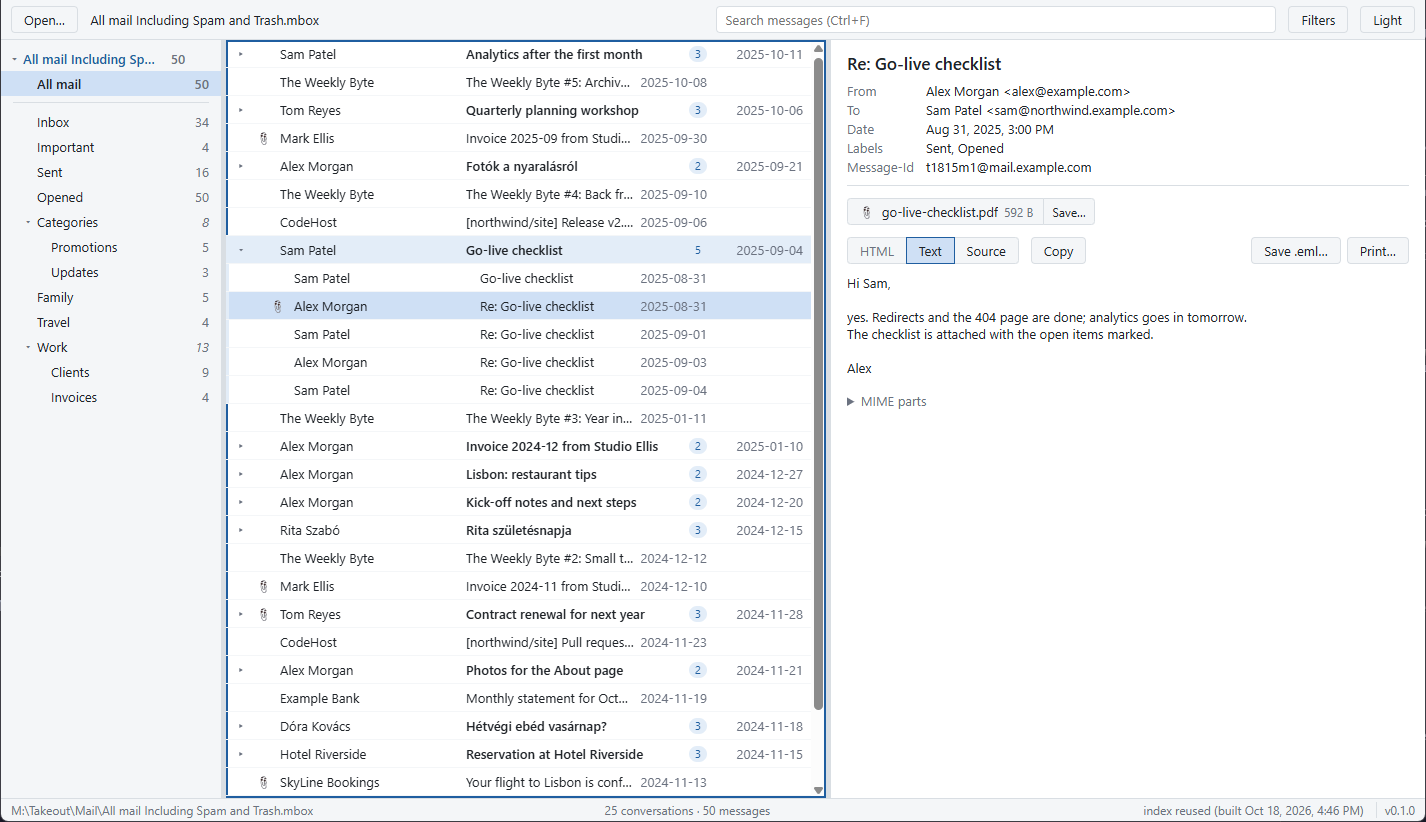
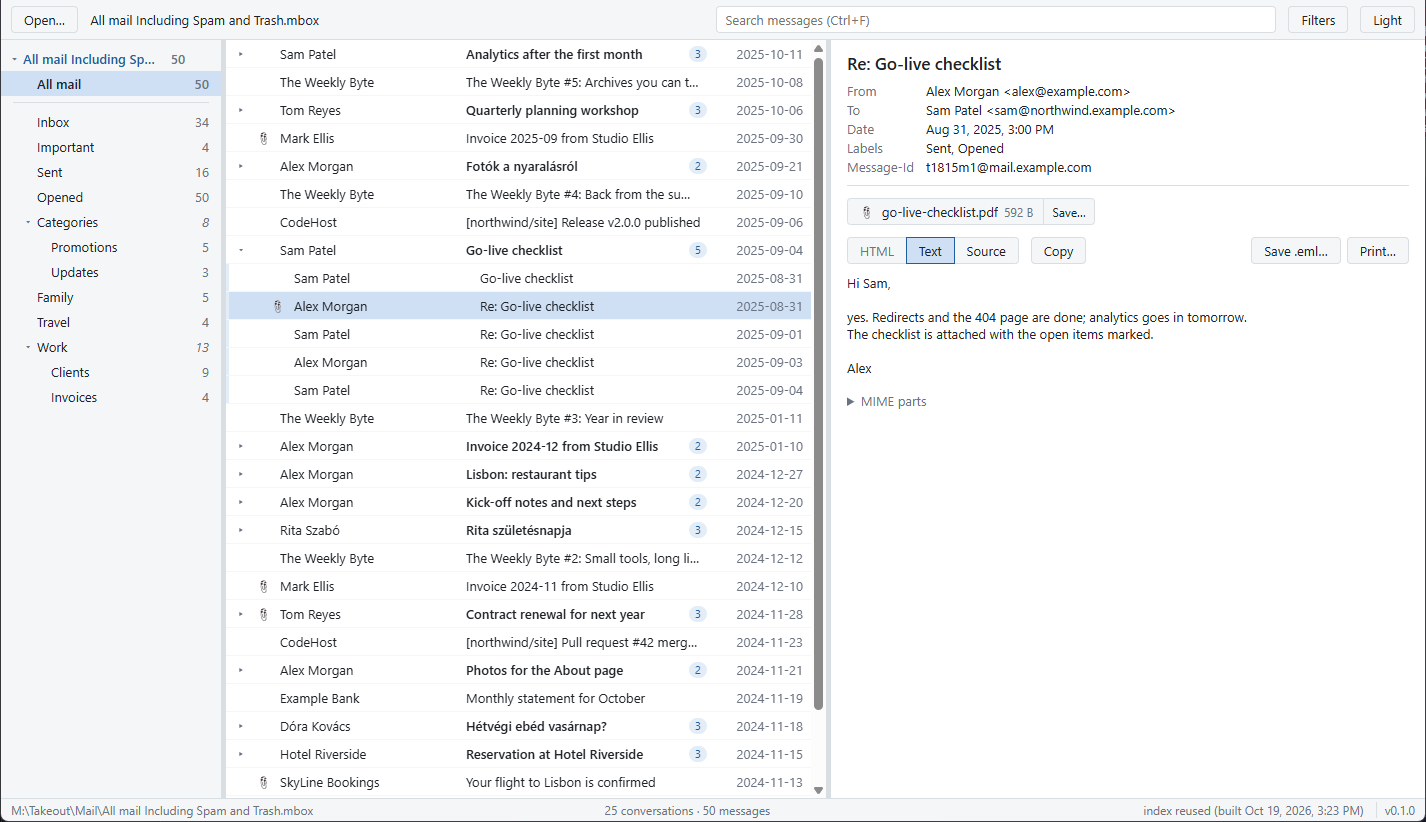
docs: refresh the README screenshot after the date column fix (task 037) (#69)
## What and why

`docs/images/viewer.png`, the README's first picture, still showed the
ragged date column that task 032 fixed:
the dates of plain rows sat further left than those of conversation
rows. The screenshot is taken again over the
demo mbox (`scripts/make-demo-mbox.py`, 50 made-up messages) with the
same view as task 026 (Light theme, the
Go-live conversation open, the message with the attachment selected, the
title bar cropped); the dates now form
one column.

The capture follows the 026 recipe so no real data can show: a throwaway
WebView2 profile (the remembered open
files of the real profile never load), `--lang=en-US` for English dates,
and the mbox on a `subst` drive under a
Takeout-like path, so the status bar shows no local path. The real
profile was untouched (its newest file has the
same timestamp before and after).

Task file: `tasks/done/037-refresh-the-viewer-screenshot.md`. Closes
#37.

## Follow-ups

none (the dark native title bar under the Light override, hidden by the
crop, is already task 031)

## Checklist

- [ ] `cargo fmt --check`, `cargo clippy --all-targets -- -D warnings`
and `cargo test` pass (no code change; CI skips docs-only changes)
- [x] No real mail anywhere: fixtures, tests, screenshots and the
description use made-up messages only
- [x] A new crate has its one-line justification in `Cargo.toml` (one
exe, D-02), or there is none
- [x] User-facing changes are described in `docs/usage.md` and
`docs/reference.md` (none)
[…]

diff --git a/tasks/done/037-refresh-the-viewer-screenshot.md b/tasks/done/037-refresh-the-viewer-screenshot.md
@@ -1,0 +1,59 @@
+---
+size: S
+origin: done/032-list-date-column-alignment-in-conversation-view.md
+created: 2026-10-18
+started: 2026-10-19
+closed: 2026-10-19
+plan: C:\Users\peter\.claude\plans\n-zz-k-t-a-backlogot-toasty-dove.md
+milestone: M5 Public release
+---
+
+# 037 — Refresh the README screenshot after the date column fix
+
+## Context
+
+What: regenerate `docs/images/viewer.png` over the demo mbox, which still shows the ragged date column that 032
+fixed; the throwaway WebView2 profile, subst drive and `--lang` setup of 026 keep the real archive out of it.
+Why: the screenshot is the README's first picture and goes public with 028.
+Done when: the committed screenshot shows the dates in one column and nothing but demo mail.
+User decision 2026-10-19: part of the backlog wave (039 + 041 + 020 in task sessions); 037 runs in the main
+session because the viewer and the manual round belong to one session at a time.
+
+## Steps
+
+1. [x] debug exe built from `main` (the code of this branch); `python -I scripts/make-demo-mbox.py`
+2. [x] capture as in 026: throwaway WebView2 profile, `--lang=en-US`, the mbox on `subst M:` under a Takeout-like
+   path, 1440×860, *Light* theme, splitter dragged, the Go-live conversation open with the attachment message
+   selected, the title bar cropped
+3. [x] the PNG checked by eye: dates in one column, only demo mail, no local path; the real profile untouched
+4. [x] `docs/images/viewer.png` replaced
+
+## Log
+
+- 2026-10-19 — promoted on `task/037-refresh-the-viewer-screenshot`.
+- 2026-10-19 — `cargo build -p mboxer-app` a main checkoutban (`5dbff23`, ugyanaz a kód, mint ezen az ágon);
+  `make-demo-mbox.py`: 50 üzenet, 42 862 bájt, SHA-256 `069f772c…` (azonos a 026-ossal).
+- 2026-10-19 — a 026-os scratchpad capture scriptje újrafelhasználva, egy kiegészítéssel: a kép előtt a kurzor
+  az ablakon kívülre kerül (az első futáson a kijelölt sor alatti sorban tooltip maradt). Lépések: kattintás az
+  üres readerbe (aktiválás), a téma gomb *Auto* → *Light* (az eldobható profil *Auto*-val indul, a Windows
+  dark), a splitter 708 → 880, a Go-live conversation kinyitva, a második (csatolmányos) üzenet kijelölve, a
+  címsor levágva → 1426×822, 108 KB (előtte 105 KB).
+
+## Deviations from the plan
+
+- none
+
+## Verification
+
+- 2026-10-19 — a kép szemmel ellenőrizve: a dátumok a conversation és a sima sorokban egy oszlopban
+  (2025-10-11 … 2024-11-13), csak demo levél (`example.*` címek), a status bar `M:\Takeout\Mail\…` utat mutat,
+  lokálisat nem. A valódi WebView2 profil (`%LOCALAPPDATA%\io.github.speti4.mboxer\`) legfrissebb fájlja előtte
+  és utána is 2026-10-18 04:20:55; `subst M: /d` után nincs subst meghajtó, viewer nem fut.
+
+## Closing checklist
+
+- [x] every follow-up is a `backlog/` file (`/tasks add`) or deleted with a reason in the Log (none; the dark title
+  bar the crop hides is 031, already on the backlog)
+- [x] Verification written, dated
+- [x] `tasks_check` green, README index regenerated (the index by the main session when it prepares the pull request)
+- [x] moved to `done/` with `closed: 2026-10-19`

diff --git a/tasks/README.md b/tasks/README.md
@@ -13,7 +13,7 @@ file, never the issue.
 <!-- tasks:index:start -->
 _Generated 2026-10-19 — edit the files, not this section._
 
-**State:** 7 backlog (3 ready · 0 blocked · 2 waiting · 2 ideas) · 0 in progress · 35 done · 0 dropped · 12 decisions
+**State:** 6 backlog (2 ready · 0 blocked · 2 waiting · 2 ideas) · 0 in progress · 36 done · 0 dropped · 12 decisions
 
 ### Ready
 
@@ -23,12 +23,6 @@ _Generated 2026-10-19 — edit the files, not this section._
 |---|---|---|---|
 | 020 | [Print on macOS through a second webview window](backlog/020-macos-print-second-webview-window.md) | M | 2026-10-18 |
 | 041 | [THIRD-PARTY-LICENSES.html in the macOS zip](backlog/041-third-party-licences-in-the-macos-zip.md) | S | 2026-10-19 |
-
-#### M5 Public release
-
-| # | Task | Size | Created |
-|---|---|---|---|
-| 037 | [Refresh the README screenshot after the date column fix](backlog/037-refresh-the-viewer-screenshot.md) | S | 2026-10-18 |
 
 ### Needs decision
 
@@ -46,7 +40,7 @@ _none_
 
 | # | Task | Waits for | Size | Created |
 |---|---|---|---|---|
-| 028 | [Publication day: visibility switch and the public-only repo settings](backlog/028-publication-day-repo-settings.md) | 023-026 done (030, the scrub and rewrite per D-10, closed 2026-10-18) | S | 2026-10-18 |
+| 028 | [Publication day: visibility switch and the public-only repo settings](backlog/028-publication-day-repo-settings.md) | 041 merged (the first release builds the macOS zip too, which needs the licence page; 023-026 and 037 are done) | S | 2026-10-18 |
 
 ### Ideas
 
@@ -77,15 +71,15 @@ _none_
 | 042 | [Cut the CI minutes: macOS tests on tags and manual runs](done/042-cut-ci-minutes.md) | 2026-10-19 |
 | 039 | [The commit hook's error messages cite D-10, not D-09](done/039-check-commit-messages-cite-d-10.md) | 2026-10-19 |
 | 038 | [README links the changelog next to the releases](done/038-readme-links-the-changelog.md) | 2026-10-19 |
+| 037 | [Refresh the README screenshot after the date column fix](done/037-refresh-the-viewer-screenshot.md) | 2026-10-19 |
 | 036 | [Git workflow doc: current decision reference, the deps type, the expected index…](done/036-git-workflow-references-and-commit-types.md) | 2026-10-19 |
 | 019 | [macOS runtime differences: index home, quarantine, Finder open, UI keys and fon…](done/019-macos-runtime-differences.md) | 2026-10-19 |
 | 018 | [macOS build, .app bundle and CI](done/018-macos-build-bundle-and-ci.md) | 2026-10-19 |
 | 035 | [CLAUDE.md fit for a public repo: no personal settings, no contradictions, a com…](done/035-claude-md-review-before-publication.md) | 2026-10-18 |
 | 034 | [Git workflow policy for contributors and parallel sessions, with the commit rul…](done/034-git-workflow-policy-and-commit-hooks.md) | 2026-10-18 |
 | 033 | [Install the Rust toolchain in CI without a third-party action](done/033-install-the-toolchain-without-a-third-party-action.md) | 2026-10-18 |
-| 032 | [Date column misaligned between conversation rows and plain rows in the list](done/032-list-date-column-alignment-in-conversation-view.md) | 2026-10-18 |
 
-_25 more in `done/`._
+_26 more in `done/`._
 
 ### Decisions
 

diff --git a/tasks/backlog/028-publication-day-repo-settings.md b/tasks/backlog/028-publication-day-repo-settings.md
@@ -1,6 +1,6 @@
 ---
 status: waiting
-waits-for: 023-026 done (030, the scrub and rewrite per D-10, closed 2026-10-18)
+waits-for: 041 merged (the first release builds the macOS zip too, which needs the licence page; 023-026 and 037 are done)
 size: S
 origin: session 2026-10-18
 created: 2026-10-18
